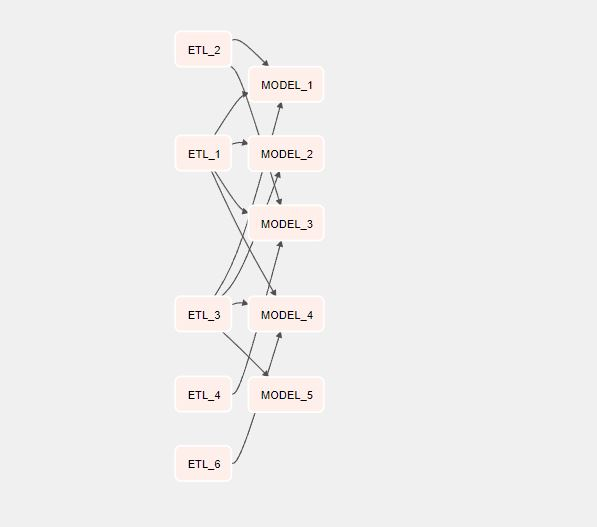
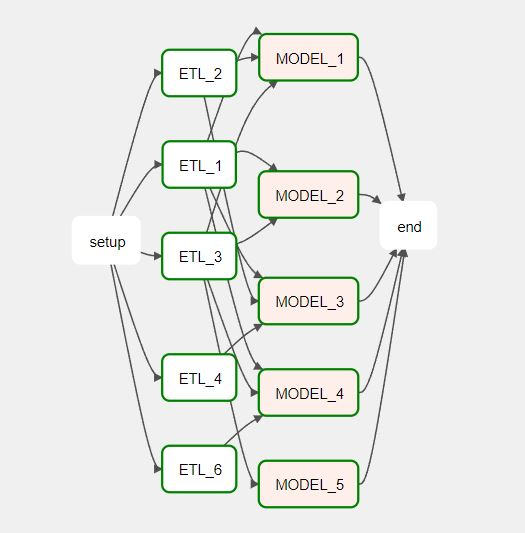
maj dag

diff --git a/dags/main_dag.py b/dags/main_dag.py
@@ -1,6 +1,7 @@
 import datetime
 from airflow import DAG
 from airflow.operators.python import PythonOperator
+from airflow.contrib.operators.ssh_operator import SSHOperator
 from airflow.decorators import task_group
 import json
 
@@ -13,6 +14,9 @@ dag = DAG(
     #schedule="@daily",
 )
 
+setup = SSHOperator(task_id="setup", dag=dag, ssh_conn_id="ssh_server", command="hostname")
+end = SSHOperator(task_id="end", dag=dag, ssh_conn_id="ssh_server", command="hostname")
+
 def lauch_etl(etl):
     def main():
         print("je lance l'etl " + etl)
@@ -20,11 +24,12 @@ def lauch_etl(etl):
 
 def lauch_model(model):
     def main():
-        print("je lance l'etl " + model)
+        print("je lance le modèle " + model)
     return main
 
 def create_etl(name, dag=dag):
-    return PythonOperator(task_id=name, dag=dag, python_callable=lauch_etl(name))
+    #return PythonOperator(task_id=name, dag=dag, python_callable=lauch_etl(name))
+    return SSHOperator(task_id=name, dag=dag, ssh_conn_id="ssh_server", command="hostname")
 
 
 def create_model(name, dag=dag):
@@ -38,6 +43,9 @@ for modl in dependancy_graph:
     for etl in dependancy_graph[modl]:
         if etl not in names_to_objects:
             names_to_objects[etl] = create_etl(etl)
+
         names_to_objects[etl] >> names_to_objects[modl]
+        setup >> names_to_objects[etl]
+        names_to_objects[modl] >> end
 
     
